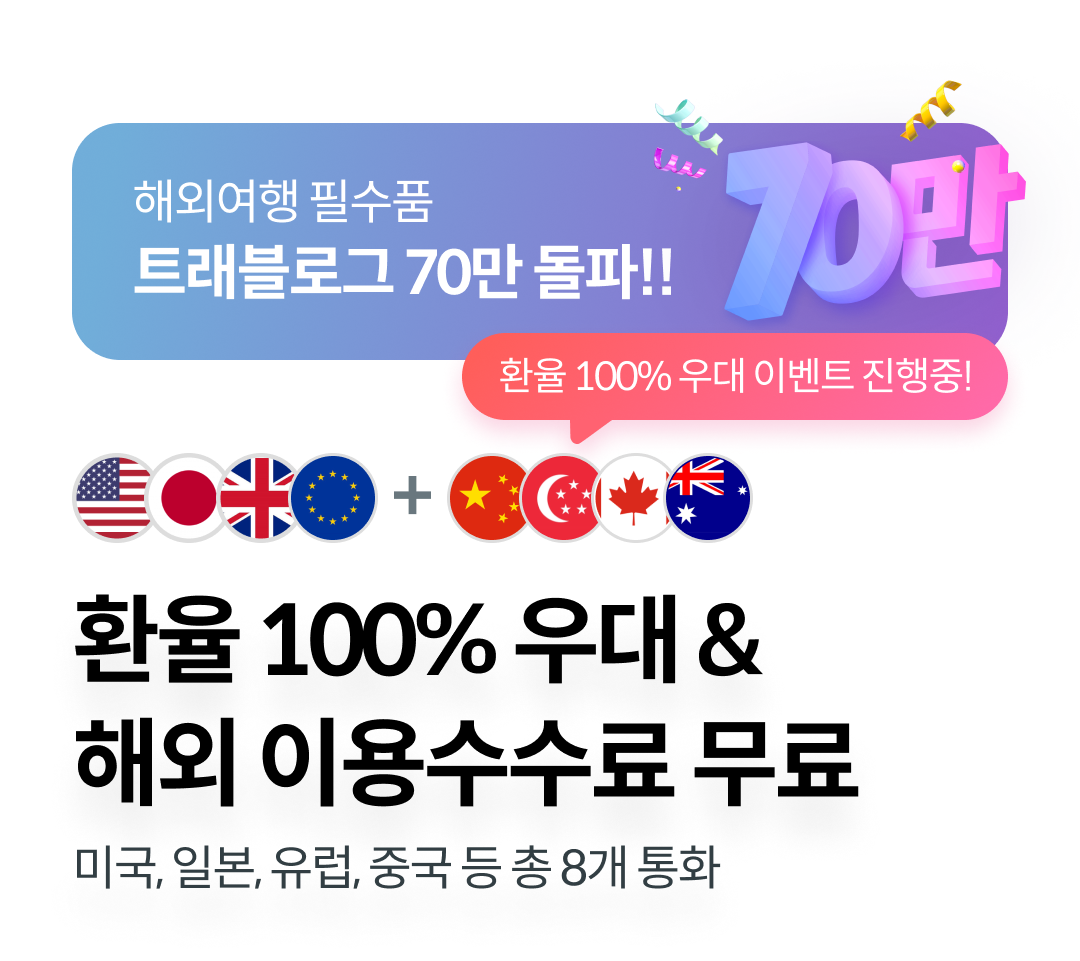
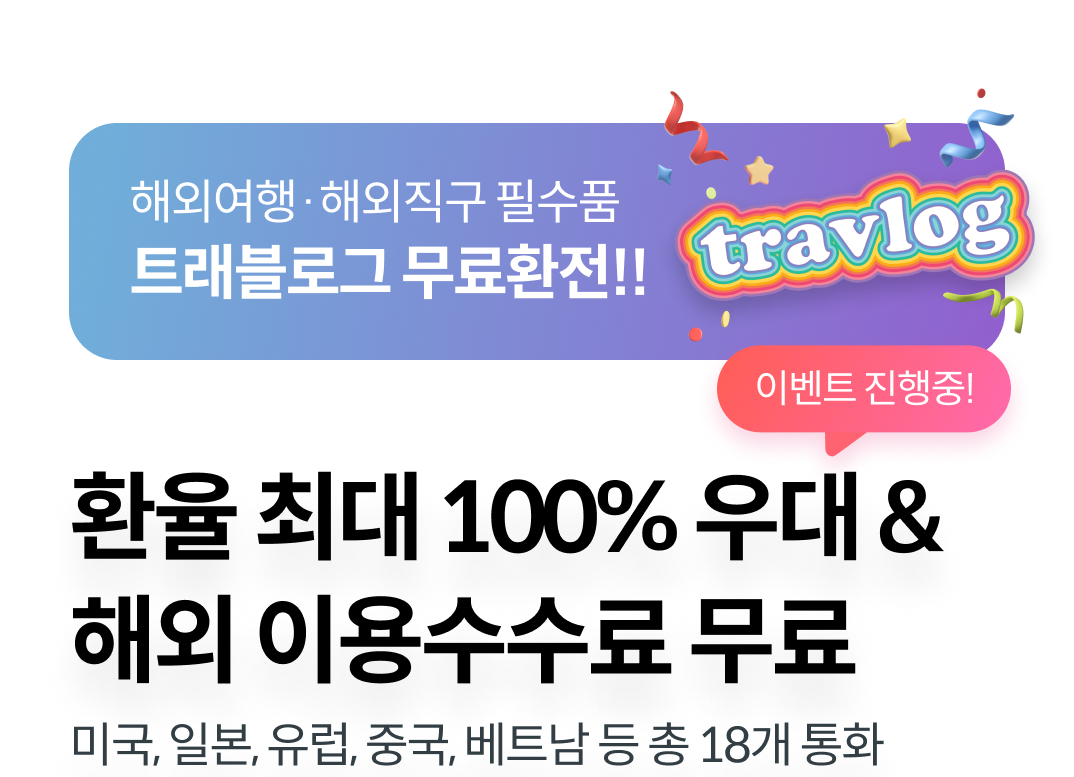
[CCY] 2차환종 추가 작업중 0424

diff --git a/css/global/contents.css b/css/global/contents.css
@@ -189,13 +189,13 @@
   top: 50% !important;
   width: 3rem;
   height: 3rem;
-  background-image: url(../../images/hmui/ico_arr_link_m.svg);
+  background-image: url('../../images/hmui/ico_arr_link_m.svg');
 }
 .section_chg_list.chg_list_acc li:first-child a.wrap_box [class^="ico_arr_link"]{
   background-image: none;
   background-color: #13C9BE;
-  -webkit-mask-image: url(../../images/hmui/ico_arr_link_m.svg);
-  mask-image: url(../../images/hmui/ico_arr_link_m.svg);
+  -webkit-mask-image: url('../../images/hmui/ico_arr_link_m.svg');
+  mask-image: url('../../images/hmui/ico_arr_link_m.svg');
 }
 .section_chg_list.chg_list_acc li:first-child .txt_balance {
   padding-top: 0.4rem;
@@ -474,11 +474,25 @@
   margin: 0 auto 1.0rem;
 }
 .list_txt.set107::before {
-  background: url(../../images/global/visual_set_107.png) no-repeat center;
+  background: url('../../images/global/visual_set_107.png') no-repeat center;
   background-size: 100%;
 }
 .list_txt.set107 li {
   word-break: keep-all;
+}
+.visual_set_charge {
+  display: block;
+  margin: 2.4rem 0 0;
+  height: 9.6rem;
+  background: url('../../images/global/visual_set_charge.png') no-repeat center;
+  background-size: auto 9.6rem;
+}
+.visual_set_charge + .list_txt.type_nobul {
+  padding-top: 0.8rem;
+  padding-bottom: 0.2rem;
+}
+.list_txt.type_nobul.type_margin_s li + li {
+  margin-top: 0.8rem;
 }
 
 /* CHG_109 */
@@ -665,8 +679,8 @@
   width: 6.7rem;
   height: 2.7rem;
   object-fit: cover;
-  -webkit-mask-image: url(../../images/global/img_line_circle.svg);
-  mask-image: url(../../images/global/img_line_circle.svg);
+  -webkit-mask-image: url('../../images/global/img_line_circle.svg');
+  mask-image: url('../../images/global/img_line_circle.svg');
   -webkit-mask-size: 100%;
   mask-size: 100%;
   -webkit-mask-repeat: no-repeat;
@@ -737,7 +751,7 @@
   right: 1.7rem;
   width: 18.33rem;
   height: 9.66rem;
-  background: url(../../images/global/img_txt_new.png);
+  background: url('../../images/global/img_txt_new.png');
   background-size: 100%;
   transform: rotate(-5deg);
   z-index: -1;
@@ -781,7 +795,7 @@ button.btn_primary.btn_credit {
   height: 7.2rem;
 }
 .usr_travlog_complete .list_benefit_label.type_full_box li .emoji_drone {
-  background-image: url(../../images/hmui/emoji_drone_big.png);
+  background-image: url('../../images/hmui/emoji_drone_big.png');
   background-size: 6.0rem auto;
 }
 .usr_travlog_complete .list_benefit_label.type_full_box li .emoji_purse {
@@ -1142,14 +1156,14 @@ button.btn_primary.btn_credit {
   left: 0;
   width: 4.3rem;
   height: 5.6rem;
-  background: url(../../images/global/img_credit_left.png) no-repeat left bottom;
+  background: url('../../images/global/img_credit_left.png') no-repeat left bottom;
   background-size: 4.4rem;
 }
 .wrap_btn .btn_box_m.type_credit.bg_card::after {
   right: 0;
   width: 5.3rem;
   height: 5.6rem;
-  background: url(../../images/global/img_credit_right.png) no-repeat right top;
+  background: url('../../images/global/img_credit_right.png') no-repeat right top;
   background-size: 5.8rem;
 }
 .section_list_trans.card_history {
@@ -1477,7 +1491,7 @@ button.btn_primary.btn_credit {
 .wrap_moneybag_all .wrap_btn.type_justify + .btn_tooltip [class^="ico_tooltip"] {
   width: 2.4rem;
   height: 2.4rem;
-  background-image: url(../../images/hmui/btn_tooltip_w.png);
+  background-image: url('../../images/hmui/btn_tooltip_w.png');
 }
 .wrap_moneybag_all .btn_ico_howto {
   padding: 0.4rem 0;
@@ -3341,7 +3355,7 @@ button.btn_primary.btn_credit {
   top: -3.6rem;
   left: 50%;
   transform: translateX(-50%);
-  background-image: url(../../images/global/emoji_card_big.png);
+  background-image: url('../../images/global/emoji_card_big.png');
 }
 .benefit_cont.gsp_acco .payment_info li .emoji_tag {
   width: 6.6rem;
@@ -3350,7 +3364,7 @@ button.btn_primary.btn_credit {
   top: -3.1rem;
   left: 50%;
   transform: translateX(-50%);
-  background-image: url(../../images/global/emoji_tag_big.png);
+  background-image: url('../../images/global/emoji_tag_big.png');
 }
 .benefit_cont.gsp_acco .payment_info + .payment_txt {
   margin-top: 1.6rem;
@@ -3423,8 +3437,8 @@ button.btn_primary.btn_credit {
   height: 1.2rem;
   background-image: none;
   background-color: #252E33;
-  -webkit-mask-image: url(../../images/hmui/ico_arr_link_s.svg);
-  mask-image: url(../../images/hmui/ico_arr_link_s.svg);
+  -webkit-mask-image: url('../../images/hmui/ico_arr_link_s.svg');
+  mask-image: url('../../images/hmui/ico_arr_link_s.svg');
   -webkit-mask-repeat: no-repeat;
   mask-repeat: no-repeat;
   -webkit-mask-position: center;
@@ -4099,7 +4113,7 @@ button.btn_primary.btn_credit {
   color: #E8A9E1;
 }
 .type_credit .benefit_cont .benefit_step_list li.complete .step_num::after {
-  background: url(../../images/global/ico_chk_gsp_02.png) no-repeat center;
+  background: url('../../images/global/ico_chk_gsp_02.png') no-repeat center;
   background-size: 100%;
 }
 .type_credit .benefit_cont .benefit_step_list li.complete .step_num::before {
@@ -4285,8 +4299,8 @@ html.intro_overflow body {
   width: 1.0rem;
   height: 1.8rem;
   background-color: rgba(255, 255, 255, 0.8);
-  -webkit-mask-image: url(../../images/global/ico_skip.svg);
-  mask-image: url(../../images/global/ico_skip.svg);
+  -webkit-mask-image: url('../../images/global/ico_skip.svg');
+  mask-image: url('../../images/global/ico_skip.svg');
   -webkit-mask-repeat: no-repeat;
   mask-repeat: no-repeat;
   -webkit-mask-position: center;
@@ -4311,8 +4325,8 @@ html.intro_overflow body {
   width: 3.0rem;
   height: 1.1rem;
   background-color: #fff;
-  -webkit-mask-image: url(../../images/global/ico_arr_down_w_w.svg);
-  mask-image: url(../../images/global/ico_arr_down_w_w.svg);
+  -webkit-mask-image: url('../../images/global/ico_arr_down_w_w.svg');
+  mask-image: url('../../images/global/ico_arr_down_w_w.svg');
   -webkit-mask-repeat: no-repeat;
   mask-repeat: no-repeat;
   -webkit-mask-position: center;
@@ -4526,6 +4540,10 @@ html.intro_overflow body {
   transform: translateY(-50%);
   transition: all 0.4s 0.2s;
 }
+.benefit_intro .intro_circle,
+.complete_intro .intro_circle {
+  z-index: -1;
+}
 .benefit_intro .intro_circle::before,
 .complete_intro .intro_circle::before {
   content: '';
@@ -4535,12 +4553,12 @@ html.intro_overflow body {
   width: 8.5rem;
   height: 6.7rem;
   background-color: #F17952;
-  -webkit-mask-image: url(../../images/global/img_intro_circle.svg);
-  mask-image: url(../../images/global/img_intro_circle.svg);
+  -webkit-mask-image: url('../../images/global/img_intro_circle.svg');
+  mask-image: url('../../images/global/img_intro_circle.svg');
   -webkit-mask-repeat: no-repeat;
   mask-repeat: no-repeat;
-  -webkit-mask-position: center;
-  mask-position: center;
+  -webkit-mask-position: top center;
+  mask-position: top center;
   -webkit-mask-size: 100%;
   mask-size: 100%;
   z-index: -1;
@@ -4554,8 +4572,8 @@ html.intro_overflow body {
   width: 17.0rem;
   height: 1.8rem;
   background-color: #F17952;
-  -webkit-mask-image: url(../../images/global/img_intro_line.svg);
-  mask-image: url(../../images/global/img_intro_line.svg);
+  -webkit-mask-image: url('../../images/global/img_intro_line.svg');
+  mask-image: url('../../images/global/img_intro_line.svg');
   -webkit-mask-repeat: no-repeat;
   mask-repeat: no-repeat;
   -webkit-mask-position: center;
@@ -4606,10 +4624,12 @@ html.intro_overflow body {
 }
 .benefit_intro .txt_check,
 .complete_intro .txt_check {
+  position: relative;
   font-size: 2.8rem;
   line-height: 3.5rem;
   text-align: center;
   font-weight: 700;
+  z-index: 2;
 }
 .benefit_intro .txt_sub,
 .complete_intro .txt_sub {
@@ -4736,14 +4756,18 @@ html.intro_overflow body {
   margin-top: 2.0rem;
   transition: 0.35s 0.4s;
 }
-.benefit_intro .chapter_05 .type_tooltip {
+.benefit_intro .chapter_05 .type_tooltip,
+.complete_intro .chapter_05 .type_tooltip {
   position: relative;
 }
-.benefit_intro .chapter_05 .type_tooltip .tooltip_bubble {
+.benefit_intro .chapter_05 .type_tooltip .tooltip_bubble,
+.complete_intro .chapter_05 .type_tooltip .tooltip_bubble {
   top: -2.3rem;
   left: 73%;
+  z-index: 2;
 }
-.benefit_intro .chapter_05 .type_tooltip .tooltip_bubble .txt_bold {
+.benefit_intro .chapter_05 .type_tooltip .tooltip_bubble .txt_bold,
+.complete_intro .chapter_05 .type_tooltip .tooltip_bubble .txt_bold {
   padding: 0 1.2rem;
 }
 .benefit_intro .chapter_05 .intro_earth {
@@ -5162,6 +5186,7 @@ html.intro_overflow body {
   transition-delay: 0.9s;
   opacity: 1;
   transform: translateY(0%);
+  z-index: 1;
 }
 .benefit_intro.intro_chapter_04 .chapter_05 .img_earth {
   transition-delay: 0.9s;
@@ -5456,7 +5481,7 @@ html.intro_overflow body {
   padding-top: 1.6rem;
   min-height: 15.8rem;
   border-radius: 1.4rem;
-  background: url(../../images/global/img_worldmap_pin.png) no-repeat bottom center #4F5D64;
+  background: url('../../images/global/img_worldmap_pin.png') no-repeat bottom center #4F5D64;
   background-size: 30.2rem;
   text-align: center;
   color: #fff;
@@ -6907,7 +6932,7 @@ html.intro_overflow body {
   right: 0;
   width: 2rem;
   height: 2rem;
-  background: url(../../images/hmui/ico_arr_down.png) no-repeat 50%;
+  background: url('../../images/hmui/ico_arr_down.png') no-repeat 50%;
   background-size: 100%;
   transform: translateY(-50%);
 }
@@ -6940,7 +6965,7 @@ html.intro_overflow body {
 .wrap_top_info.exr_info .btn_select_ccy.type_big::after {
   width: 2.8rem;
   height: 2.8rem;
-  background-image: url(../../images/hmui/ico_arr_down_b.png);
+  background-image: url('../../images/hmui/ico_arr_down_b.png');
 }
 .wrap_top_info.exr_info .exch_rate_info {
   display: flex;
@@ -7382,7 +7407,7 @@ html.intro_overflow body {
 }
 .exr_inp .btn_select_ccy:after {
   top: 50%;
-  background-image: url(../../images/hmui/ico_arr_down_2.png);
+  background-image: url('../../images/hmui/ico_arr_down_2.png');
   transform: translateY(-50%);
 }
 .exr_inp .btn_select_ccy .txt_ccy {
@@ -7707,7 +7732,7 @@ html.intro_overflow body {
 .wrap_cov_ccy .cov_ccy_btn .ico_arr_down {
   width: 2.8rem;
   height: 2.8rem;
-  background-image: url(../../images/hmui/ico_arr_down_b.png);
+  background-image: url('../../images/hmui/ico_arr_down_b.png');
   vertical-align: middle;
 }
 .wrap_cov_ccy .cov_ccy_txt {
@@ -7948,7 +7973,7 @@ html.intro_overflow body {
   height: 3rem;
   top: 0.2rem;
   right: 0rem;
-  background: url(../../images/hmui/ico_heart_m.png) no-repeat;
+  background: url('../../images/hmui/ico_heart_m.png') no-repeat;
   background-size: 3rem;
   transform: rotate(0);
 }

diff --git a/html/global/HMN/HMN_201_2.html b/html/global/HMN/HMN_201_2.html
@@ -30,13 +30,13 @@
         <!-- 22.09.13 변경 -->
         <div class="content_layer type_bg bg_hmn_201">
           <!-- 23.01.19 통이미지처리로 변경 -->
-          <img src="../../../images/global/bg_hmn_201.png" alt="해외여행 필수픔 트래블로그 50만돌파!! 환율 100% 우대 이벤트 진행중! 환율 100% 우대 & 해외 이용수수료 무료 미국, 일본, 유럽, 중국 등 총 8개 통화"><!-- 23.03.08 문구변경 -->
+          <img src="../../../images/global/bg_hmn_201.png" alt="해외여행,해외직구 필수품 트래블로그 무료환전!! 이벤트 진행중! 환율 최대 100% 우대 & 해외 이용수수료 무료 미국, 일본, 유럽, 중국, 베트남 등 총 18개 통화"><!-- 23.04.24 / 23.03.08 문구변경 -->
           <!-- // 23.01.19 통이미지처리로 변경 -->
         </div>
         <!-- // 22.09.13 변경 -->
         <div class="section_bottom_fixed">
           <div class="wrap_btn_full">
-            <button type="button" class="btn_full_primary fnClosePop">트래블로그 시작하기</button><!-- 22.06.16 문구변경 -->
+            <button type="button" class="btn_full_primary fnClosePop">지금 혜택받기</button><!-- 23.04.24 / 22.06.16 문구변경 -->
           </div>
         </div>
         <!-- 22.09.13 변경 -->

diff --git a/html/global/HMN/HMN_201_1.html b/html/global/HMN/HMN_201_1.html
@@ -30,7 +30,7 @@
         <!-- 22.09.13 변경 -->
         <div class="content_layer type_bg bg_hmn_201">
           <!-- 23.01.19 통이미지처리로 변경 -->
-          <img src="../../../images/global/bg_hmn_201.png" alt="해외여행 필수픔 트래블로그 60만돌파!! 환율 100% 우대 이벤트 진행중! 환율 100% 우대 & 해외 이용수수료 무료 미국, 일본, 유럽, 중국 등 총 8개 통화"><!-- 23.03.08 문구변경 -->
+          <img src="../../../images/global/bg_hmn_201.png" alt="해외여행,해외직구 필수품 트래블로그 무료환전!! 이벤트 진행중! 환율 최대 100% 우대 & 해외 이용수수료 무료 미국, 일본, 유럽, 중국, 베트남 등 총 18개 통화"><!-- 23.04.24 / 23.03.08 문구변경 -->
           <!-- // 23.01.19 통이미지처리로 변경 -->
           <div class="section_terms">
             <ul class="wrap_agree_list">
